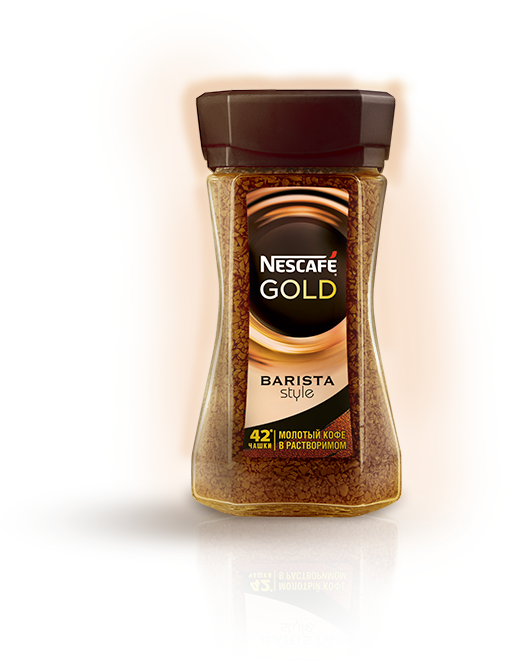
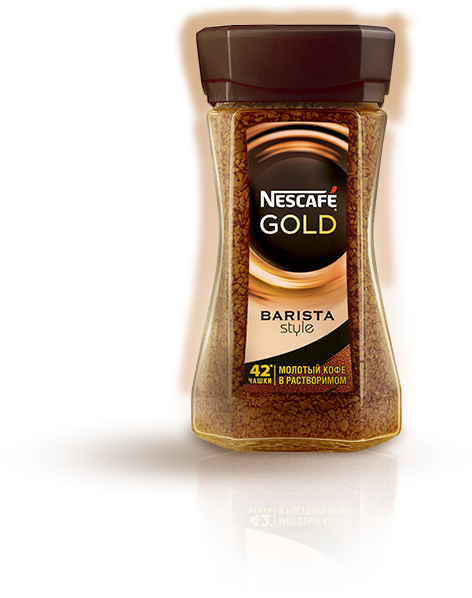
barista fix

diff --git a/products-gold barista.html b/products-gold barista.html
@@ -70,14 +70,14 @@
 
                 <!-- product -->
                 <div class="product">
-                    <img src="images/catalogue-barista-max.png" alt="" width="514" height="663" class="product-gold-barista" />
+                    <img src="images/catalogue-barista-max.png" alt="" width="472" height="598" class="product-gold-barista" />
 
                     <div class="product-content">
                         <div class="product-breadcrumbs"><a href="#">все продукты</a></div>
                         <h3>Nescafe<sup>®</sup> gold BARISTA Style</h3>
                         <div class="product-text">
                             Инновация в кофейном мире. Порадуйте себя безупречным сочетанием растворимого кофе высшего качества и кофейных зерен ультратонкого помола.
-                            <div class="product-text-barista">Молотый кофе в растворимом <img src="images/product-text-barista.png" alt="" width="11" height="14" /></div>
+                            <div class="product-text-barista"><a href="#">Молотый кофе в растворимом <img src="images/product-text-barista.png" alt="" width="11" height="14" /></a></div>
                             <div class="dg-vk"><a href="#" class="content-link-2"><img src="images/vk-3.png" alt="" width="36" height="35" /> Мы ВКонтакте</a></div>
                             <div class="dg-vk"><a href="#" class="content-link-2"><img src="images/facebook-3.png" alt="" width="36" height="35" /> Мы на Facebook</a></div>
                         </div>

diff --git a/css/style.css b/css/style.css
@@ -602,7 +602,7 @@ img {border:none}
 .product-classic {position:absolute; left:200px; top:-71px}
 .product-espresso {position:absolute; left:98px; top:-155px}
 .product-gold-classic {position:absolute; left:128px; top:-113px}
-.product-gold-barista {position:absolute; left:329px; top:53px}
+.product-gold-barista {position:absolute; left:329px; top:118px}
 .product-green-blend {position:absolute; left:129px; top:-94px}
 .product-montego {position:absolute; left:56px; top:-59px}
 
@@ -619,6 +619,8 @@ img {border:none}
 .product-text a:hover {color:#fff}
 
 .product-text-barista {text-transform:uppercase; color:#d9230b; font:15px/20px SansRoundedWeb, arial, helvetica, sans-serif; padding:34px 0 0 0; white-space:nowrap}
+.product-text-barista a,
+.product-text-barista a:hover {color:#d9230b}
 .product-text-barista img {vertical-align:middle; margin:0 0 2px 3px}
 
 .product-links {position:absolute; left:749px; top:440px; font:14px/16px SansRoundedWeb, arial, helvetica, sans-serif; width:140px}
